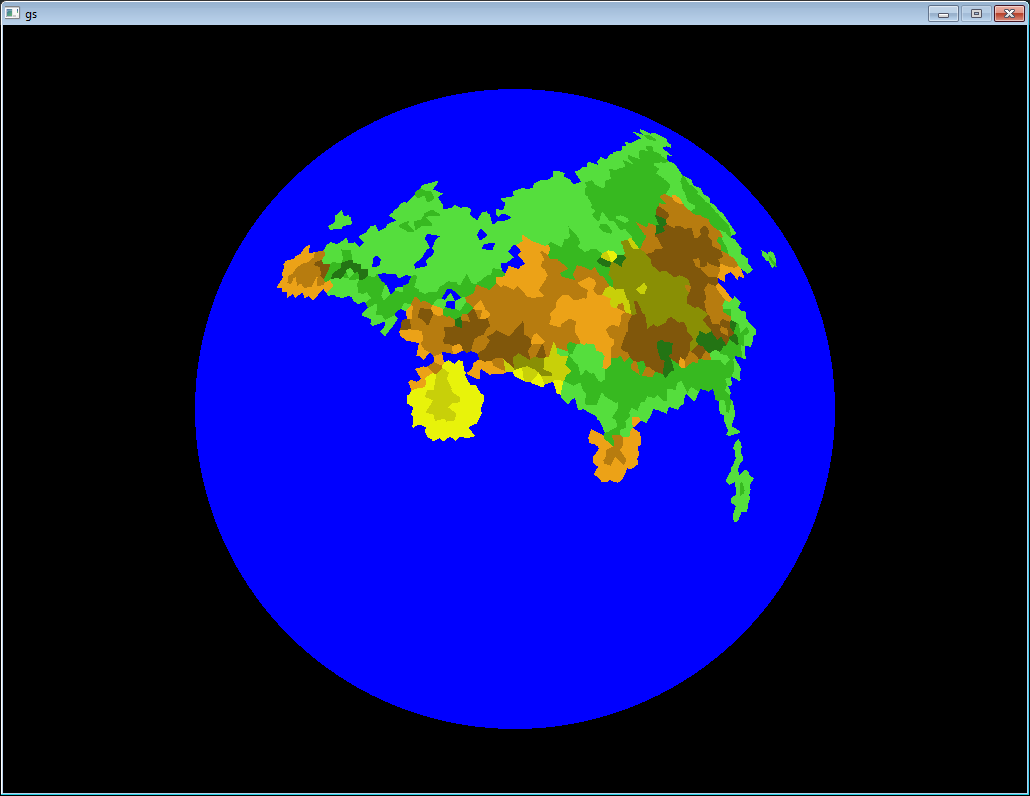
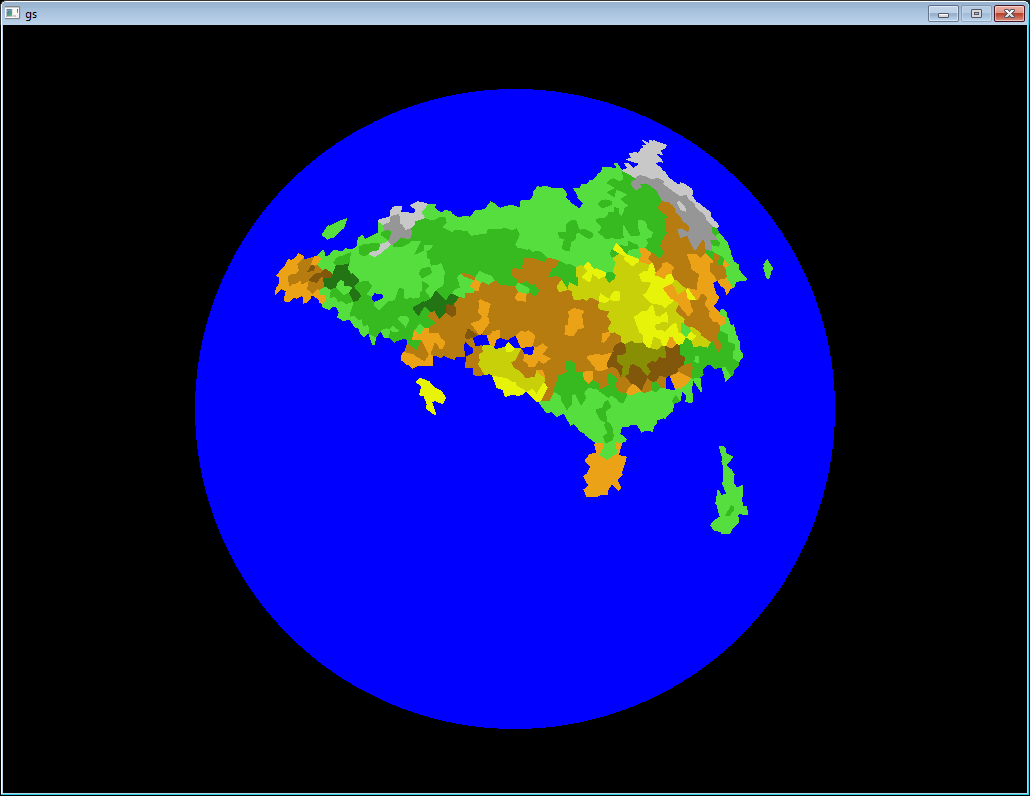
Biomes now have a terrain preference.

Changed region(s): [[0.2796, 0.1508, 0.7767, 0.6935]]

diff --git a/src/gs/gsBiomeSpreader.cpp b/src/gs/gsBiomeSpreader.cpp
@@ -21,10 +21,13 @@ void gs::BiomeSpreader::CleanFrontier()
     }
 }
 
+gs::LandTilePtr gs::BiomeSpreader::SelectRandomTileFromVector( const vector<gs::LandTilePtr> tiles, gs::RandomRange<double>& randomIndex ) const
+{
+    return ( tiles.empty() ) ? nullptr : tiles[(int) ( randomIndex.Sample() * (double) tiles.size() )];
+}
+
 bool gs::BiomeSpreader::Spread()
 {
-    gs::RandomRange<double> randomIndex( 0.0, 0.9999, std::time( 0 ) );
-
     for ( unsigned int i = 0; i < speed; ++i )
     {
         if ( frontier.empty() )
@@ -32,22 +35,75 @@ bool gs::BiomeSpreader::Spread()
             return false;
         }
 
-        int index = (int) ( randomIndex.Sample() * (double) frontier.size() );
-        gs::LandTilePtr newTile = frontier[index]->GetUnassignedBiomeNeighbor();
-        if ( newTile != nullptr ) //TODO: prevent this all together
+        vector<gs::LandTilePtr> unassignedNeighbors;
+
+        for ( const auto& tile : frontier )
         {
-            newTile->SetBiome( value );
-            frontier.push_back( newTile );
+            vector<gs::LandTilePtr> tileUnassignedNeighbors = tile->GetUnassignedBiomeNeighbors();
+            unassignedNeighbors.insert( unassignedNeighbors.end(), tileUnassignedNeighbors.begin(), tileUnassignedNeighbors.end() );
         }
+
+        vector<gs::LandTilePtr> unassignedPlains;
+        vector<gs::LandTilePtr> unassignedHills;
+        vector<gs::LandTilePtr> unassignedMountains;
+
+        for ( const auto& tile : unassignedNeighbors )
+        {
+            if ( tile->terrain == gs::LandTile::Terrain::PLAINS )
+            {
+                unassignedPlains.push_back( tile );
+            }
+            else if ( tile->terrain == gs::LandTile::Terrain::HILLS )
+            {
+                unassignedHills.push_back( tile );
+            }
+            else if ( tile->terrain == gs::LandTile::Terrain::MOUNTAINS )
+            {
+                unassignedMountains.push_back( tile );
+            }
+        }
+
+        //select best tile from the three vectors
+        gs::RandomRange<double> randomIndex( 0.0, 0.9999, std::time( 0 ) );
+
+        gs::LandTilePtr plainsTile = SelectRandomTileFromVector( unassignedPlains, randomIndex );
+        gs::LandTilePtr hillsTile = SelectRandomTileFromVector( unassignedHills, randomIndex );
+        gs::LandTilePtr mountainsTile = SelectRandomTileFromVector( unassignedMountains, randomIndex );
+
+        gs::LandTilePtr bestTile = mountainsTile;
+
+        if ( terrainPreference == gs::LandTile::Terrain::PLAINS )
+        {
+            bestTile = ( hillsTile == nullptr ) ? bestTile : hillsTile;
+            bestTile = ( plainsTile == nullptr ) ? bestTile : plainsTile;
+        }
+        else if ( terrainPreference == gs::LandTile::Terrain::HILLS )
+        {
+            bestTile = ( plainsTile == nullptr ) ? bestTile : plainsTile;
+            bestTile = ( hillsTile == nullptr ) ? bestTile : hillsTile;
+        }
+
+        if ( bestTile != nullptr ) //TODO: prevent nullptr all together
+        {
+            bestTile->SetBiome( value );
+            frontier.push_back( bestTile );
+        }
+        else
+        {
+            return false;
+        }
+
         CleanFrontier();
+
     }
 
     return true;
 }
 
-gs::BiomeSpreader::BiomeSpreader( const unsigned int speed, const gs::LandTilePtr origin, const gs::LandTile::Biome value )
+gs::BiomeSpreader::BiomeSpreader( const unsigned int speed, const gs::LandTilePtr origin, const gs::LandTile::Biome value, const gs::LandTile::Terrain terrainPreference )
     :   Spreader<shared_ptr<gs::LandTile>>( speed, origin ),
-        value( value )
+        value( value ),
+        terrainPreference( terrainPreference )
 {
     origin->SetBiome( value );
     CleanFrontier();

diff --git a/src/gs/gsGlobe.cpp b/src/gs/gsGlobe.cpp
@@ -350,7 +350,7 @@ void gs::Globe::GenerateBiomes( const int numOfSpreaders )
     for ( int i = 0; i < numOfSpreaders && i < landTiles.size(); ++i )
     {
         //swap current tile with random tile further along in the vector
-        int index = i + (int) ( randomIndex.Sample() * (double) ( landTiles.size() - i ) );
+        unsigned int index = i + (int) ( randomIndex.Sample() * (double) ( landTiles.size() - i ) );
         gs::LandTilePtr temp = landTiles[index];
         landTiles[index] = landTiles[i];
         landTiles[i] = temp;
@@ -361,7 +361,7 @@ void gs::Globe::GenerateBiomes( const int numOfSpreaders )
 
     for ( int i = 0; i < numOfSpreaders && i < landTiles.size(); ++i )
     {
-        spreaders.push_back( gs::BiomeSpreader( randomSpeed.Sample(), landTiles[i], LookupRegionBiome( landTiles[i]->regionId ) ) );
+        spreaders.push_back( gs::BiomeSpreader( randomSpeed.Sample(), landTiles[i], LookupRegionBiome( landTiles[i]->regionId ), landTiles[i]->terrain ) );
     }
 
     //update each spreader until there is no more room to expand
@@ -375,6 +375,15 @@ void gs::Globe::GenerateBiomes( const int numOfSpreaders )
             {
                 active = true;
             }
+        }
+    }
+
+    //assign biomes to tiles that the spreaders didn't reach
+    for ( auto& tile : landTiles )
+    {
+        if ( tile->GetBiome() == gs::LandTile::Biome::UNASSIGNED )
+        {
+            tile->SetBiome( LookupRegionBiome( tile->regionId ) );
         }
     }
 

diff --git a/src/gs/gsLandTile.h b/src/gs/gsLandTile.h
@@ -47,12 +47,12 @@ namespace gs
 
     public:
 
-        shared_ptr<gs::LandTile>    GetUnassignedBiomeNeighbor() const;
-        Biome                       GetBiome() const;
-        bool                        HasUnassignedBiomeNeighbors() const;
-        void                        SetBiome( const Biome newBiome );
-        void                        SetBlackIfRiver(); //TODO: delete
-        bool                        SpawnRiver();
+        vector<shared_ptr<gs::LandTile>>    GetUnassignedBiomeNeighbors() const;
+        Biome                               GetBiome() const;
+        bool                                HasUnassignedBiomeNeighbors() const;
+        void                                SetBiome( const Biome newBiome );
+        void                                SetBlackIfRiver(); //TODO: delete
+        bool                                SpawnRiver();
 
     public:
         LandTile( const int bufferOffset, const vector<shared_ptr<gs::Vertex>>& vertices, const double height, const int regionId );

diff --git a/src/gs/gsLandTile.cpp b/src/gs/gsLandTile.cpp
@@ -20,16 +20,17 @@ gs::LandTile::Terrain gs::LandTile::DetermineTerrain() const
     }
 }
 
-shared_ptr<gs::LandTile> gs::LandTile::GetUnassignedBiomeNeighbor() const
+vector<shared_ptr<gs::LandTile>> gs::LandTile::GetUnassignedBiomeNeighbors() const
 {
+    vector<shared_ptr<gs::LandTile>> unassignedNeighbors;
     for ( const auto& link : landLinks )
     {
         if ( link.target->GetBiome() == gs::LandTile::Biome::UNASSIGNED )
         {
-            return link.target;
+            unassignedNeighbors.push_back( link.target );
         }
     }
-    return nullptr;
+    return unassignedNeighbors;
 }
 
 gs::LandTile::Biome gs::LandTile::GetBiome() const
@@ -99,6 +100,10 @@ void gs::LandTile::SetBlackIfRiver() //TODO: delete
             color = gs::Vec3f( 150.0/255.0, 150.0/255.0, 150.0/255.0 );
         else
             color = gs::Vec3f( 100.0/255.0, 100.0/255.0, 100.0/255.0 );
+    }
+    else if ( biome == gs::LandTile::Biome::UNASSIGNED )
+    {
+        color = gs::Vec3f( 1.0f, 1.0f, 1.0f );
     }
 }
 

diff --git a/src/gs/gsTile.cpp b/src/gs/gsTile.cpp
@@ -9,34 +9,8 @@
 using std::cerr;
 using std::endl;
 
-void gs::Tile::SetColor() //delete
-{
-    color = gs::Vec3f( 1.0f, 1.0f, 0.0f );
-    visited = true;
-    for ( auto link : landLinks )
-    {
-        if ( !link.target->visited )
-        {
-            //link.target->SetColor();
-        }
-
-    }
-}
-
 void gs::Tile::InitBuffers( const GLuint positionVbo, const GLuint colorVbo, const GLuint texCoordVbo, const GLuint fogVbo, vector<GLuint>& indexVector ) //const
 {
-    if ( bufferOffset == 0 )
-    {
-        color = gs::Vec3f( 1.0f, 0.0f, 0.0f );
-        for ( auto link : allLinks )
-        {
-            if ( !link.target->visited )
-            {
-                link.target->SetColor();
-            }
-        }
-    }
-
     //load position data
     GLfloat* positionArray = new GLfloat[3*vertices.size()];
     for ( unsigned int i = 0; i < vertices.size(); ++i )

diff --git a/src/gs/gsBiomeSpreader.h b/src/gs/gsBiomeSpreader.h
@@ -10,16 +10,18 @@ namespace gs
     class BiomeSpreader : public gs::Spreader<gs::LandTilePtr>
     {
     private:
-        gs::LandTile::Biome value;
+        gs::LandTile::Biome     value;
+        gs::LandTile::Terrain   terrainPreference;
 
-    public:
-        void CleanFrontier();
+    private:
+        void            CleanFrontier();
+        gs::LandTilePtr SelectRandomTileFromVector( const vector<gs::LandTilePtr> tiles, gs::RandomRange<double>& randomIndex ) const;
 
     public:
         bool Spread();
 
     public:
-        BiomeSpreader( const unsigned int speed, const gs::LandTilePtr origin, const gs::LandTile::Biome value );
+        BiomeSpreader( const unsigned int speed, const gs::LandTilePtr origin, const gs::LandTile::Biome value, const gs::LandTile::Terrain terrainPreference );
     };
 }
 

diff --git a/src/gs/gsTile.h b/src/gs/gsTile.h
@@ -55,7 +55,6 @@ namespace gs
         //void  MapToTexture( vector<gs::Texture>& textures );
 
         Type    GetSurface() const;
-        void    SetColor(); //delete
 
     protected:
         Tile( const Type surface, const int bufferOffset, const vector<shared_ptr<gs::Vertex>>& vertices, const double height );
